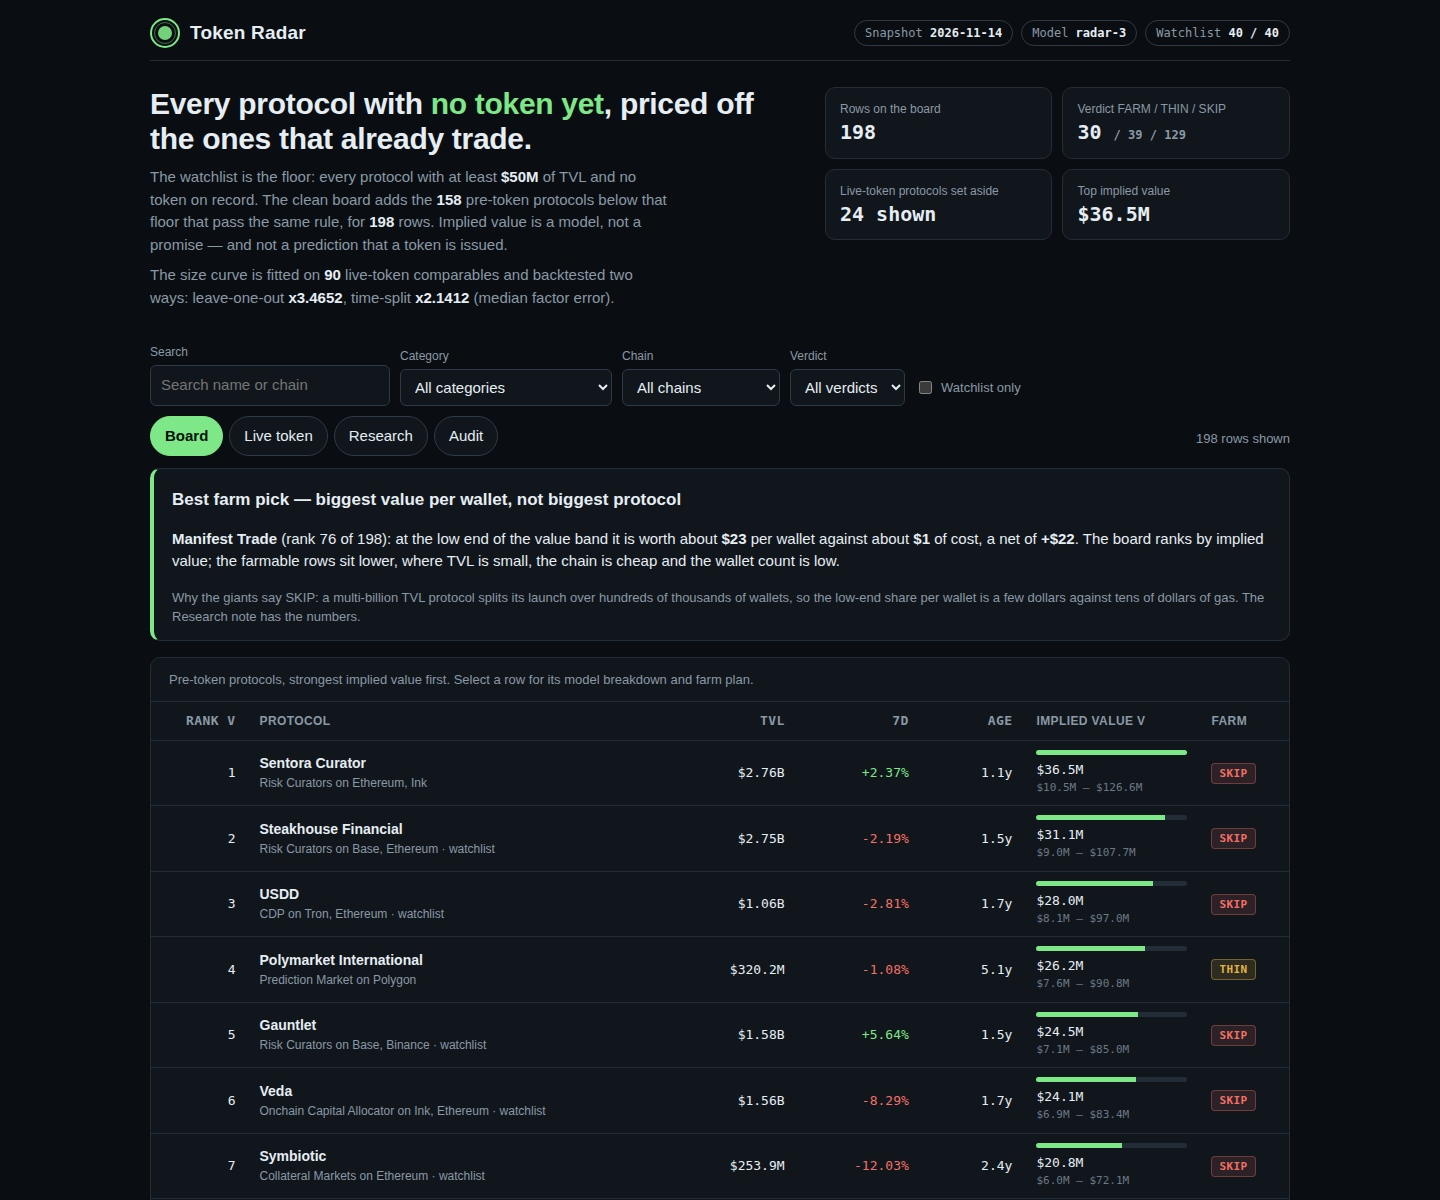
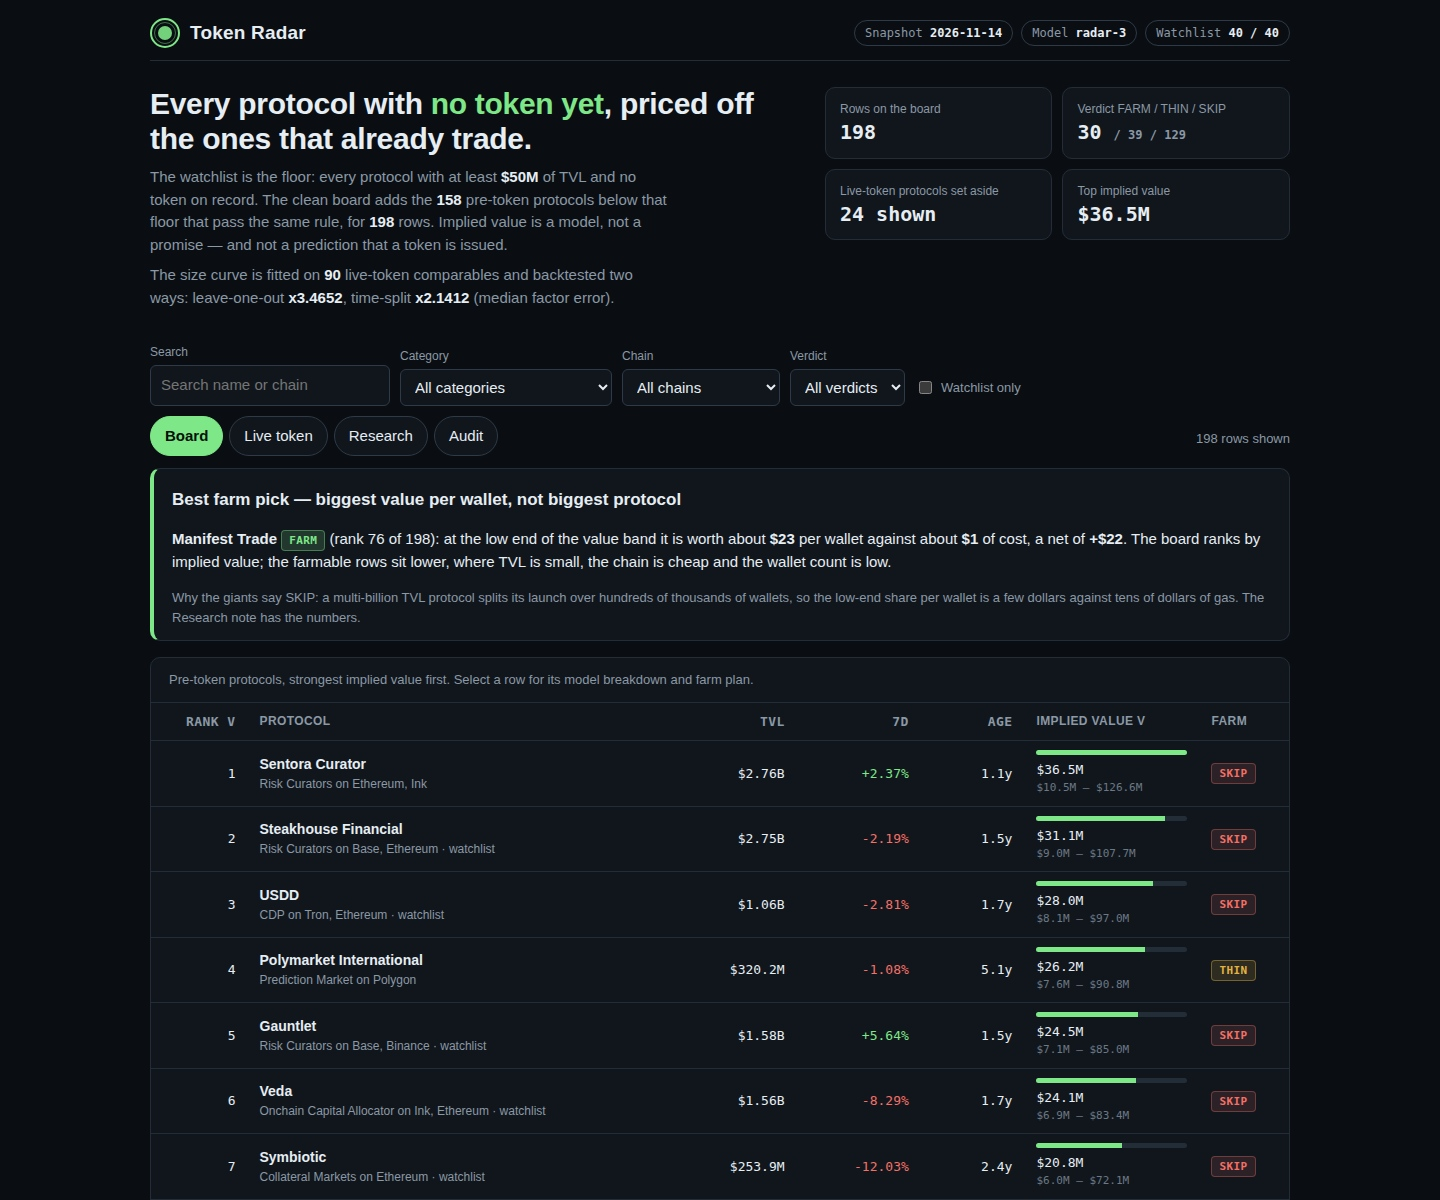
token-radar: visual polish for the manual j5 check — best-farm detail shot, research tab shot, FARM chip in the callout

diff --git a/dashboard/app.js b/dashboard/app.js
@@ -253,7 +253,7 @@
     var net = best.net_low_usd >= 0 ? '+$' + best.net_low_usd : '-$' + Math.abs(best.net_low_usd);
     return el('section', { class: 'panel pick' },
       el('h2', { text: 'Best farm pick — biggest value per wallet, not biggest protocol' }),
-      el('p', { html: '<b>' + esc(best.name) + '</b> (rank ' + best.rank + ' of ' + DATA.board_size + '): at the low end of the value band it is worth about <b>$' + best.ev_low_usd + '</b> per wallet against about <b>$' + best.farm_cost_usd + '</b> of cost, a net of <b>' + net + '</b>. The board ranks by implied value; the farmable rows sit lower, where TVL is small, the chain is cheap and the wallet count is low.' }),
+      el('p', { html: '<b>' + esc(best.name) + '</b> <span class="chip FARM">FARM</span> (rank ' + best.rank + ' of ' + DATA.board_size + '): at the low end of the value band it is worth about <b>$' + best.ev_low_usd + '</b> per wallet against about <b>$' + best.farm_cost_usd + '</b> of cost, a net of <b>' + net + '</b>. The board ranks by implied value; the farmable rows sit lower, where TVL is small, the chain is cheap and the wallet count is low.' }),
       el('p', { class: 'note', text: 'Why the giants say SKIP: a multi-billion TVL protocol splits its launch over hundreds of thousands of wallets, so the low-end share per wallet is a few dollars against tens of dollars of gas. The Research note has the numbers.' }));
   }
   function boardTable() {

diff --git a/tools/shoot.py b/tools/shoot.py
@@ -1,9 +1,14 @@
 #!/usr/bin/env python3
-"""Take the three token-radar screenshots with Playwright and size them to 300-350 KB JPEG.
+"""Take the four token-radar screenshots with Playwright and size them to 300-350 KB JPEG.
 
 Usage: python3 tools/shoot.py <out-dir> <dest-dir>
   out-dir  : a MAKEFUN_OUTPUT_DIR (has dashboard/index.html + data.js + board.json)
-  dest-dir : where 1-board.jpg, 2-detail.jpg, 3-filtered.jpg are written
+  dest-dir : where 1-board.jpg, 2-detail.jpg, 3-filtered.jpg, 4-research.jpg are written
+
+The detail shot shows the best farm pick (the callout's protocol, highest low-end value
+per wallet among FARM rows) rather than rank 1: rank 1 is a SKIP with a negative net, so
+its modal tells the wrong story. The fourth shot is the Research tab, the product's
+rigor on one screen.
 """
 import json
 import sys
@@ -25,7 +30,9 @@ def to_jpeg(png_path: Path, out_path: Path) -> int:
     image content is the real render either way; only the encoding fidelity moves.
     """
     img = Image.open(png_path).convert("RGB")
-    ladder = [(q, 2) for q in (95, 96, 97, 98, 99, 100)] + [(q, 1) for q in (98, 99, 100)] + [(100, 0)]
+    # The ladder walks from low fidelity up: dense-text views (Research) already overshoot
+    # the band at quality 95, while flat board views need the top rungs to reach it.
+    ladder = [(q, 2) for q in (80, 85, 88, 90, 92, 94, 95, 96, 97, 98, 99, 100)] + [(q, 1) for q in (98, 99, 100)] + [(100, 0)]
     best = (0, None)  # (size, (quality, subsampling)) of the largest file under the band
     for q, sub in ladder:
         img.save(out_path, "JPEG", quality=q, subsampling=sub, optimize=True)
@@ -46,12 +53,15 @@ def main() -> int:
     out_dir, dest = Path(sys.argv[1]).resolve(), Path(sys.argv[2]).resolve()
     dest.mkdir(parents=True, exist_ok=True)
     board = json.loads((out_dir / "board.json").read_text())
-    top_slug = board["rows"][0]["slug"]
+    rows = board["rows"]
+    farms = [r for r in rows if r.get("verdict") == "FARM"]
+    best = max(farms, key=lambda r: (r.get("ev_low_usd", 0), -r["rank"]))
     base = (out_dir / "dashboard" / "index.html").as_uri()
     views = [
         ("1-board.jpg", "", 1440, 1200),
-        ("2-detail.jpg", f"#p={top_slug}", 1440, 1200),
+        ("2-detail.jpg", f"#p={best['slug']}", 1440, 1200),
         ("3-filtered.jpg", "#verdict=FARM", 1440, 1200),
+        ("4-research.jpg", "#tab=research", 1440, 1200),
     ]
     errors = []
     with sync_playwright() as pw:
